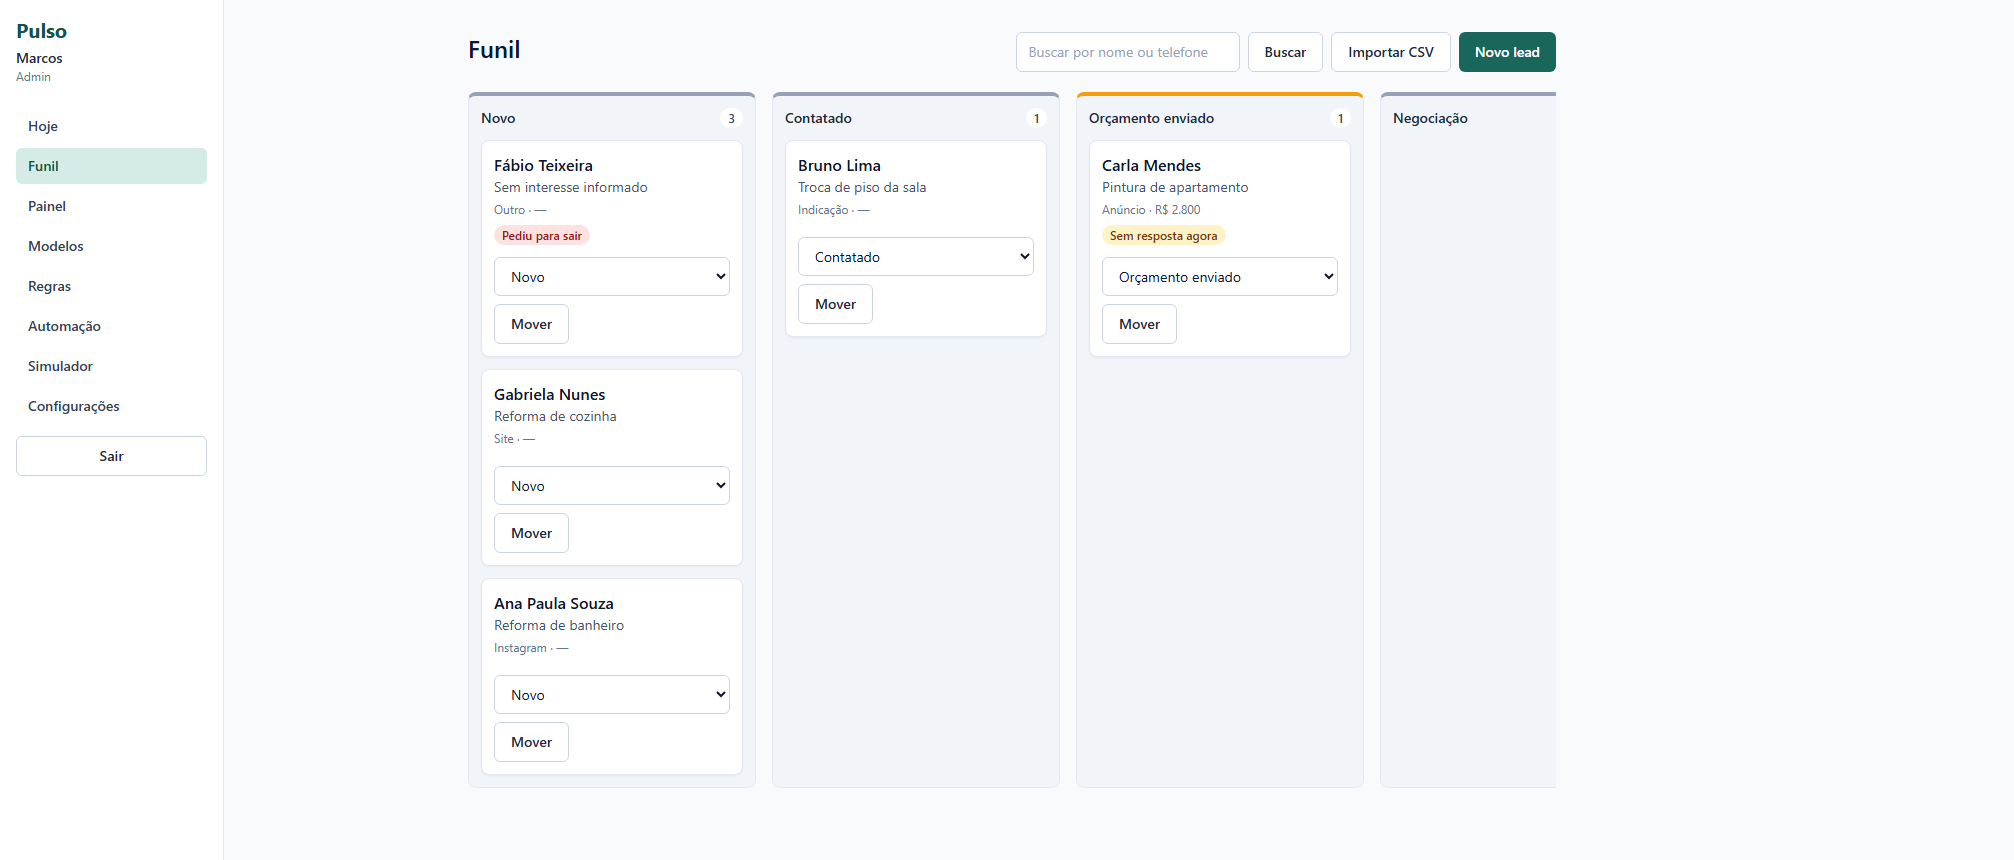
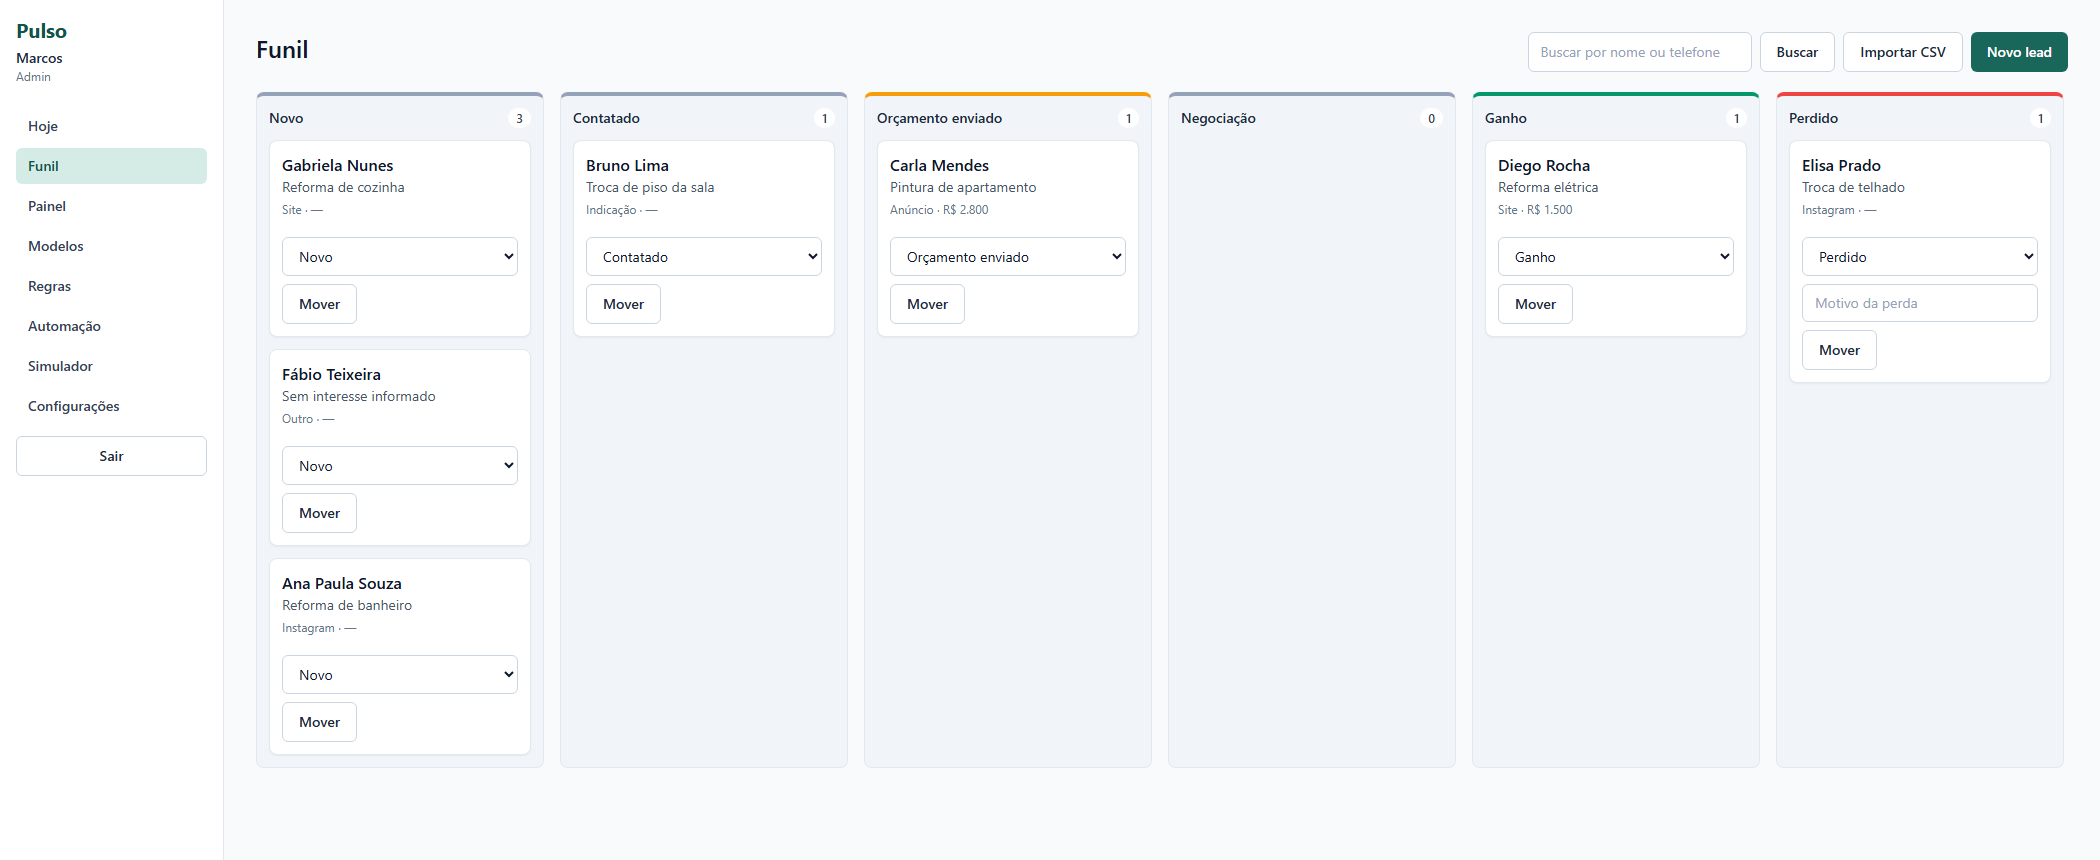
docs: funil com as seis colunas e demonstração em GIF do follow-up até a parada na resposta

diff --git a/docs/imagens/README.md b/docs/imagens/README.md
@@ -4,6 +4,12 @@ Os 11 prints do app rodando com os dados de demonstração, na ordem do fluxo: e
 
 ← [Índice](../INDEX.md)
 
+## Demonstração
+
+![Gravação do app: a atendente registra um contato na lead Carla Mendes, o ciclo envia o follow-up 1, a lead responde pelo simulador, e o log mostra "Lead respondeu" e a tarefa "Responder Carla" aparece em Hoje](demo-followup.gif)
+
+Fluxo real de 23 segundos, sem edição além do corte do login e da espera do ciclo. O follow-up só vence em 24 h, então o ciclo rodou com data simulada pelo recurso do próprio projeto (`npm run tick -- 2026-10-26T08:05:00-03:00`). Por isso, no log, o envio (26/10) aparece com data posterior à resposta (24/10, data real).
+
 ## 1. Login
 
 ![Tela de login do Pulso: título, subtítulo "Funil de leads e follow-up no WhatsApp", campos E-mail e Senha e botão Entrar](01-login.png)
@@ -18,9 +24,9 @@ Duas tarefas do dia, uma delas "Responder Bruno" marcada como criada pela automa
 
 ## 3. Funil
 
-![Quadro do funil com as colunas Novo (3 leads), Contatado (1), Orçamento enviado (1) e Negociação (vazia), busca, botões Importar CSV e Novo lead](03-funil.png)
+![Quadro do funil com as seis colunas: Novo (3 leads), Contatado (1), Orçamento enviado (1), Negociação (0), Ganho (1) e Perdido (1), com busca e botões Importar CSV e Novo lead](03-funil.png)
 
-As quatro primeiras colunas do quadro; Ganho e Perdido ficam à direita, fora do print. Os cartões trazem os selos "Pediu para sair" e "Sem resposta agora" e um seletor com botão Mover · as etapas são configuráveis ([ADR-006](../03-arquitetura/adr/ADR-006-etapas-configuraveis.md)) e mover pelo seletor foi a alternativa ao arrastar e soltar ([validação do protótipo](../04-prototipo/02-validacao-do-prototipo.md), pedido 1).
+As seis colunas do quadro, cada cartão com um seletor de etapa e o botão Mover; no cartão de Perdido há o campo "Motivo da perda" · as etapas são configuráveis ([ADR-006](../03-arquitetura/adr/ADR-006-etapas-configuraveis.md)) e mover pelo seletor foi a alternativa ao arrastar e soltar ([validação do protótipo](../04-prototipo/02-validacao-do-prototipo.md), pedido 1); mover para Perdido exige motivo (RN-09).
 
 ## 4. Lead
 

diff --git a/README.md b/README.md
@@ -32,7 +32,7 @@ Guia completo da série: [docs/INDEX.md](docs/INDEX.md). Termos técnicos: [glos
 <table>
 <tr>
 <td width="50%"><img src="docs/imagens/04-lead.png" alt="Detalhe de um lead com linha do tempo, próximo passo da automação (follow-up 1 em 24h, follow-up 2 em 72h, Perdido em 120h) e botão Pausar automação"></td>
-<td width="50%"><img src="docs/imagens/03-funil.png" alt="Quadro do funil com as colunas Novo, Contatado, Orçamento enviado e Negociação"></td>
+<td width="50%"><img src="docs/imagens/03-funil.png" alt="Quadro do funil com as seis colunas: Novo, Contatado, Orçamento enviado, Negociação, Ganho e Perdido"></td>
 </tr>
 <tr>
 <td width="50%"><img src="docs/imagens/06-regras.png" alt="Lista de seis regras de automação ativas, com gatilho, espera, ação e texto do modelo"></td>
@@ -40,7 +40,9 @@ Guia completo da série: [docs/INDEX.md](docs/INDEX.md). Termos técnicos: [glos
 </tr>
 </table>
 
-Todas as telas, com legenda: [galeria](docs/imagens/README.md).
+![Gravação do app: o ciclo envia o follow-up 1 à lead Carla Mendes, ela responde pelo simulador e o log registra "Lead respondeu" com a sequência interrompida](docs/imagens/demo-followup.gif)
+
+Fluxo real de 23 segundos: contato registrado, follow-up enviado (ciclo com data simulada, pois ele só vence em 24 h), resposta pelo simulador e parada da sequência. [Detalhes e demais telas](docs/imagens/README.md).
 
 ## As 4 garantias
 
